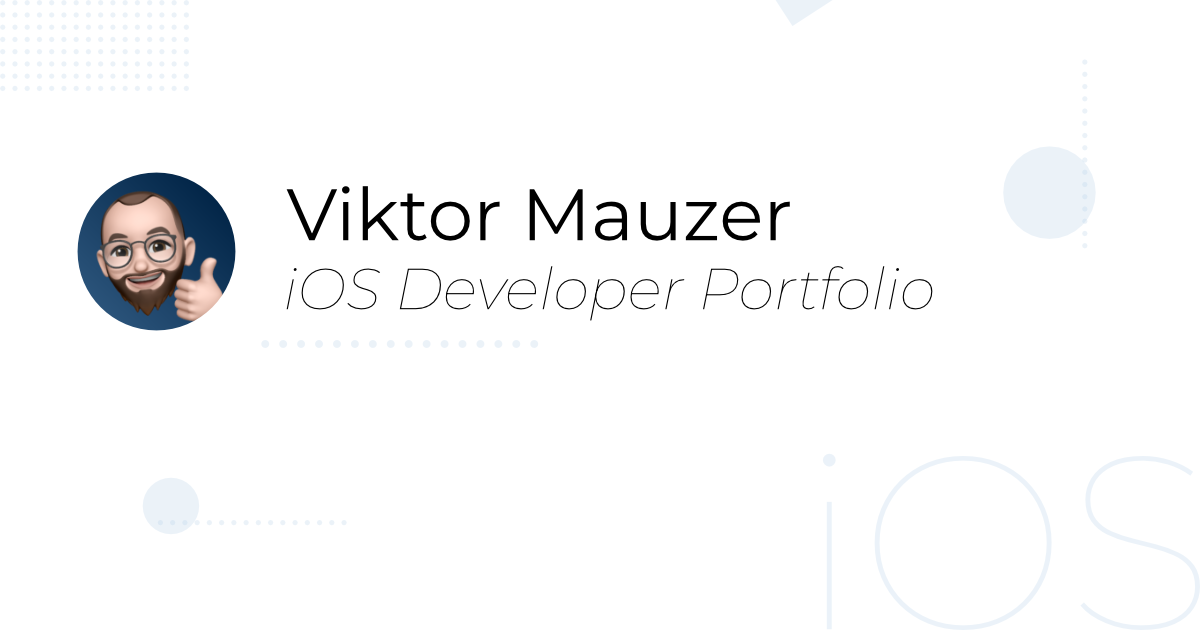
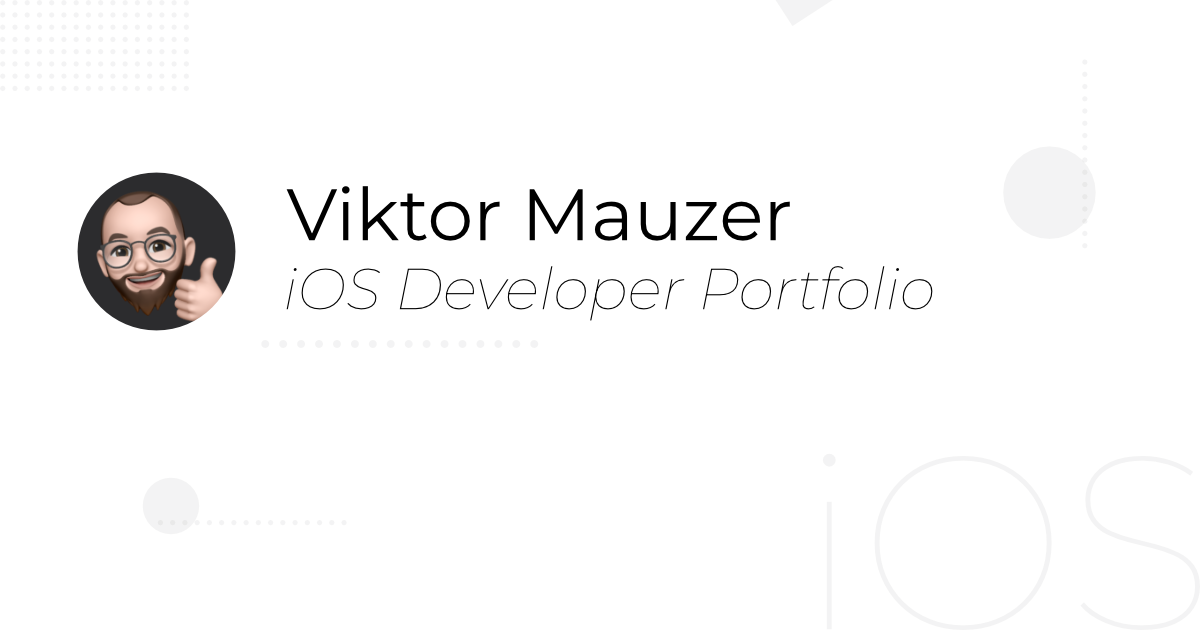
add visual improvements, colors and assets

Changed region(s): [[0.0617, 0.2714, 0.2158, 0.5429]]

diff --git a/style.css b/style.css
@@ -188,13 +188,11 @@ article .github__button-icon:not(:last-child) {
 }
 
 .button-dark {
-  background-image: -o-linear-gradient(175deg, #002345, #2d567d);
-  background-image: linear-gradient(275deg, #002345, #2d567d);
+  background-color: rgb(195, 30, 0);
 }
 
 .button-white {
-  background-image: -o-linear-gradient(175deg, #fff, #fff);
-  background-image: linear-gradient(275deg, #fff, #fff);
+  background-color: white;
   color: black;
 }
 
@@ -205,6 +203,13 @@ article .github__button-icon:not(:last-child) {
   color: white;
 }
 
+.button-hollow-dark {
+  border: 2px solid black;
+  border-radius: 100rem;
+  text-decoration: none;
+  color: black;
+}
+
 @media (hover: hover) {
   .button-white:hover {
     -webkit-transform: translate(0, -3px);
@@ -213,8 +218,7 @@ article .github__button-icon:not(:last-child) {
     color: white;
     -webkit-box-shadow: 1px 3px 6px rgba(0, 0, 0, 0.4);
     box-shadow: 1px 3px 6px rgba(0, 0, 0, 0.4);
-    background-image: -o-linear-gradient(175deg, #002345, #2d567d);
-    background-image: linear-gradient(275deg, #002345, #2d567d);
+    background-color: rgb(195, 30, 0);
   }
 
   .button-white:hover > .button-icon {
@@ -227,6 +231,12 @@ article .github__button-icon:not(:last-child) {
     transform: translate(0, -3px);
     letter-spacing: 2px;
     -webkit-box-shadow: 1px 3px 6px rgba(0, 0, 0, 0.4);
+    box-shadow: 1px 3px 6px rgba(0, 0, 0, 0.4);
+  }
+
+  .button-hollow-dark:hover {
+    transform: translate(0, -3px);
+    letter-spacing: 2px;
     box-shadow: 1px 3px 6px rgba(0, 0, 0, 0.4);
   }
 
@@ -258,6 +268,7 @@ article .github__button-icon:not(:last-child) {
 
 .button-icon-light {
   fill: white;
+  margin-right: 1rem;
 }
 
 .github__button-icon {
@@ -426,7 +437,7 @@ article .github__button-icon:not(:last-child) {
 .slider__indicator-dot {
   width: 0.6rem;
   height: 0.6rem;
-  background-color: rgba(255, 255, 255, 0.25);
+  background-color: rgba(0, 0, 0, 0.25);
   border-radius: 100rem;
   text-align: center;
   -webkit-transition: all 0.2s;
@@ -435,7 +446,7 @@ article .github__button-icon:not(:last-child) {
 }
 
 .slider__indicator-dot-selected {
-  background-color: white;
+  background-color: black;
 }
 
 .slider__indicator-dot:not(:last-child) {
@@ -451,7 +462,7 @@ article .github__button-icon:not(:last-child) {
   height: 6rem;
   border: 2px solid white;
   border-radius: 100rem;
-  background-color: #002345;
+  background-color: rgb(44, 44, 46);
   display: -webkit-box;
   display: -ms-flexbox;
   display: flex;
@@ -518,8 +529,11 @@ article .github__button-icon:not(:last-child) {
 }
 
 .header__bg {
+  /*
   background-image: -o-linear-gradient(175deg, #002345, #2d567d);
   background-image: linear-gradient(275deg, #002345, #2d567d);
+  */
+  background-color: rgb(44, 44, 46);
   width: 4rem;
   height: 4rem;
   position: fixed;
@@ -951,8 +965,7 @@ article .github__button-icon:not(:last-child) {
 
 /* OPEN WEATHER */
 .open__weather {
-  background-image: -o-linear-gradient(45deg, #002345, #2d567d);
-  background-image: linear-gradient(45deg, #002345, #2d567d);
+  background-color: white;
   display: -webkit-box;
   display: -ms-flexbox;
   display: flex;
@@ -967,7 +980,7 @@ article .github__button-icon:not(:last-child) {
 }
 
 .open__weather-info {
-  color: white;
+  color: black;
   display: -webkit-box;
   display: -ms-flexbox;
   display: flex;
@@ -1024,6 +1037,10 @@ article .github__button-icon:not(:last-child) {
 .open__weather-slider-container img {
   display: block;
   max-width: 100%;
+}
+
+.open__weather .slider__icon {
+  fill: rgba(0, 0, 0, 0.6);
 }
 
 .open__weather .p__figure-large {

diff --git a/index.html b/index.html
@@ -34,7 +34,7 @@
     <link rel="apple-touch-icon" href="img/apple-icon.png" />
     <link rel="shortcut icon" type="image/jpg" href="img/favicon.png" />
 
-    <link rel="stylesheet" href="style.css?v=1.1" />
+    <link rel="stylesheet" href="style.css?v=1.2" />
     <title>Portfolio - Viktor Mauzer, iOS Developer</title>
   </head>
   <body ontouchstart="">
@@ -178,22 +178,18 @@
             rel="noreferrer noopener"
             target="_blank"
             href="https://github.com/viktormauzer/openweather-UIKit"
-            class="github__button button button-white no__highlights"
+            class="github__button button button-dark no__highlights"
           >
-            <svg
-              class="github__button-icon open__weather-button-icon button-icon"
-            >
+            <svg class="github__button-icon button-icon-light">
               <use xlink:href="/icons/sprite.svg#vector-github-logo"></use>
             </svg>
-            <svg
-              class="github__button-icon open__weather-button-icon button-icon"
-            >
+            <svg class="github__button-icon button-icon-light">
               <use xlink:href="/icons/sprite.svg#vector-github-logo-text"></use>
             </svg>
           </a>
           <a
             href="/portfolio/open-weather.html"
-            class="button button-hollow-white no__highlights"
+            class="button button-hollow-dark no__highlights"
             >more info</a
           >
         </div>

diff --git a/privacy.html b/privacy.html
@@ -35,7 +35,7 @@
     <link rel="apple-touch-icon" href="img/apple-icon.png" />
     <link rel="shortcut icon" type="image/jpg" href="img/favicon.png" />
 
-    <link rel="stylesheet" href="style.css?v=1.1" />
+    <link rel="stylesheet" href="style.css?v=1.2" />
     <title>Privacy - Viktor Mauzer, iOS Developer</title>
   </head>
   <body ontouchstart="">

diff --git a/portfolio/open-weather.html b/portfolio/open-weather.html
@@ -35,7 +35,7 @@
     />
 
     <link rel="shortcut icon" type="image/jpg" href="../img/favicon.png" />
-    <link rel="stylesheet" href="style.css?v=1.1" />
+    <link rel="stylesheet" href="style.css?v=1.2" />
     <title>OpenWeather - Viktor Mauzer, iOS Developer</title>
   </head>
   <body ontouchstart="">

diff --git a/about.html b/about.html
@@ -34,7 +34,7 @@
       content="Portfolio - Viktor Mauzer, iOS Developer"
     />
 
-    <link rel="stylesheet" href="style.css?v=1.1" />
+    <link rel="stylesheet" href="style.css?v=1.2" />
     <title>About - Viktor Mauzer, iOS Developer</title>
   </head>
   <body ontouchstart="">
